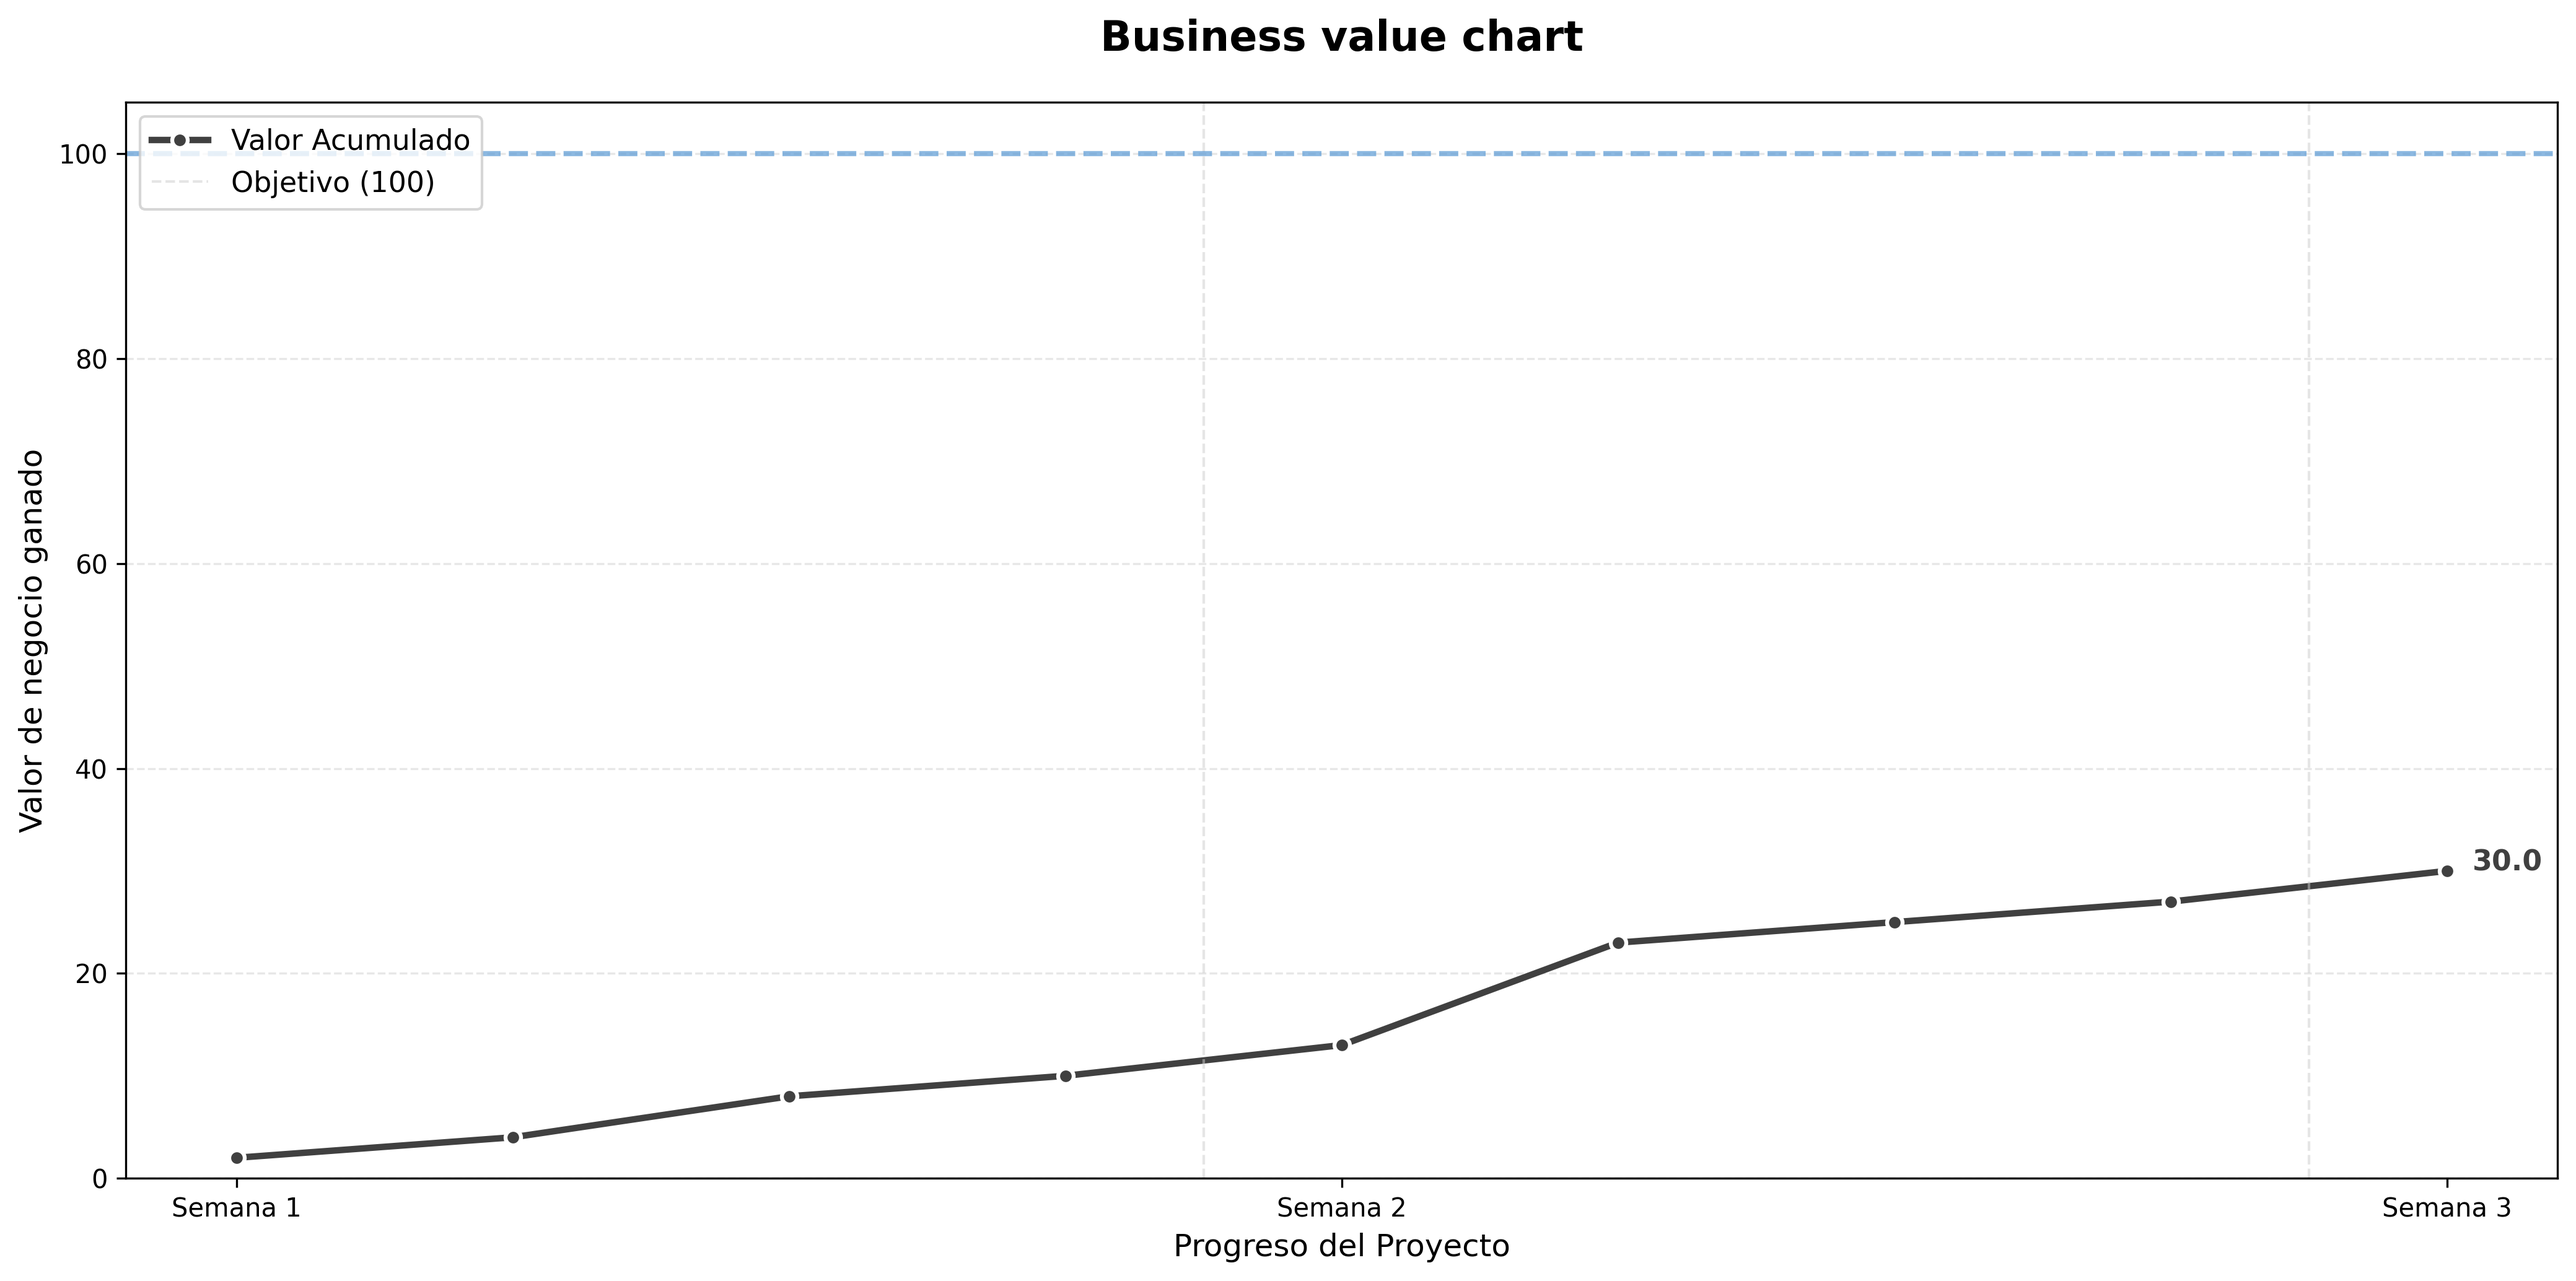
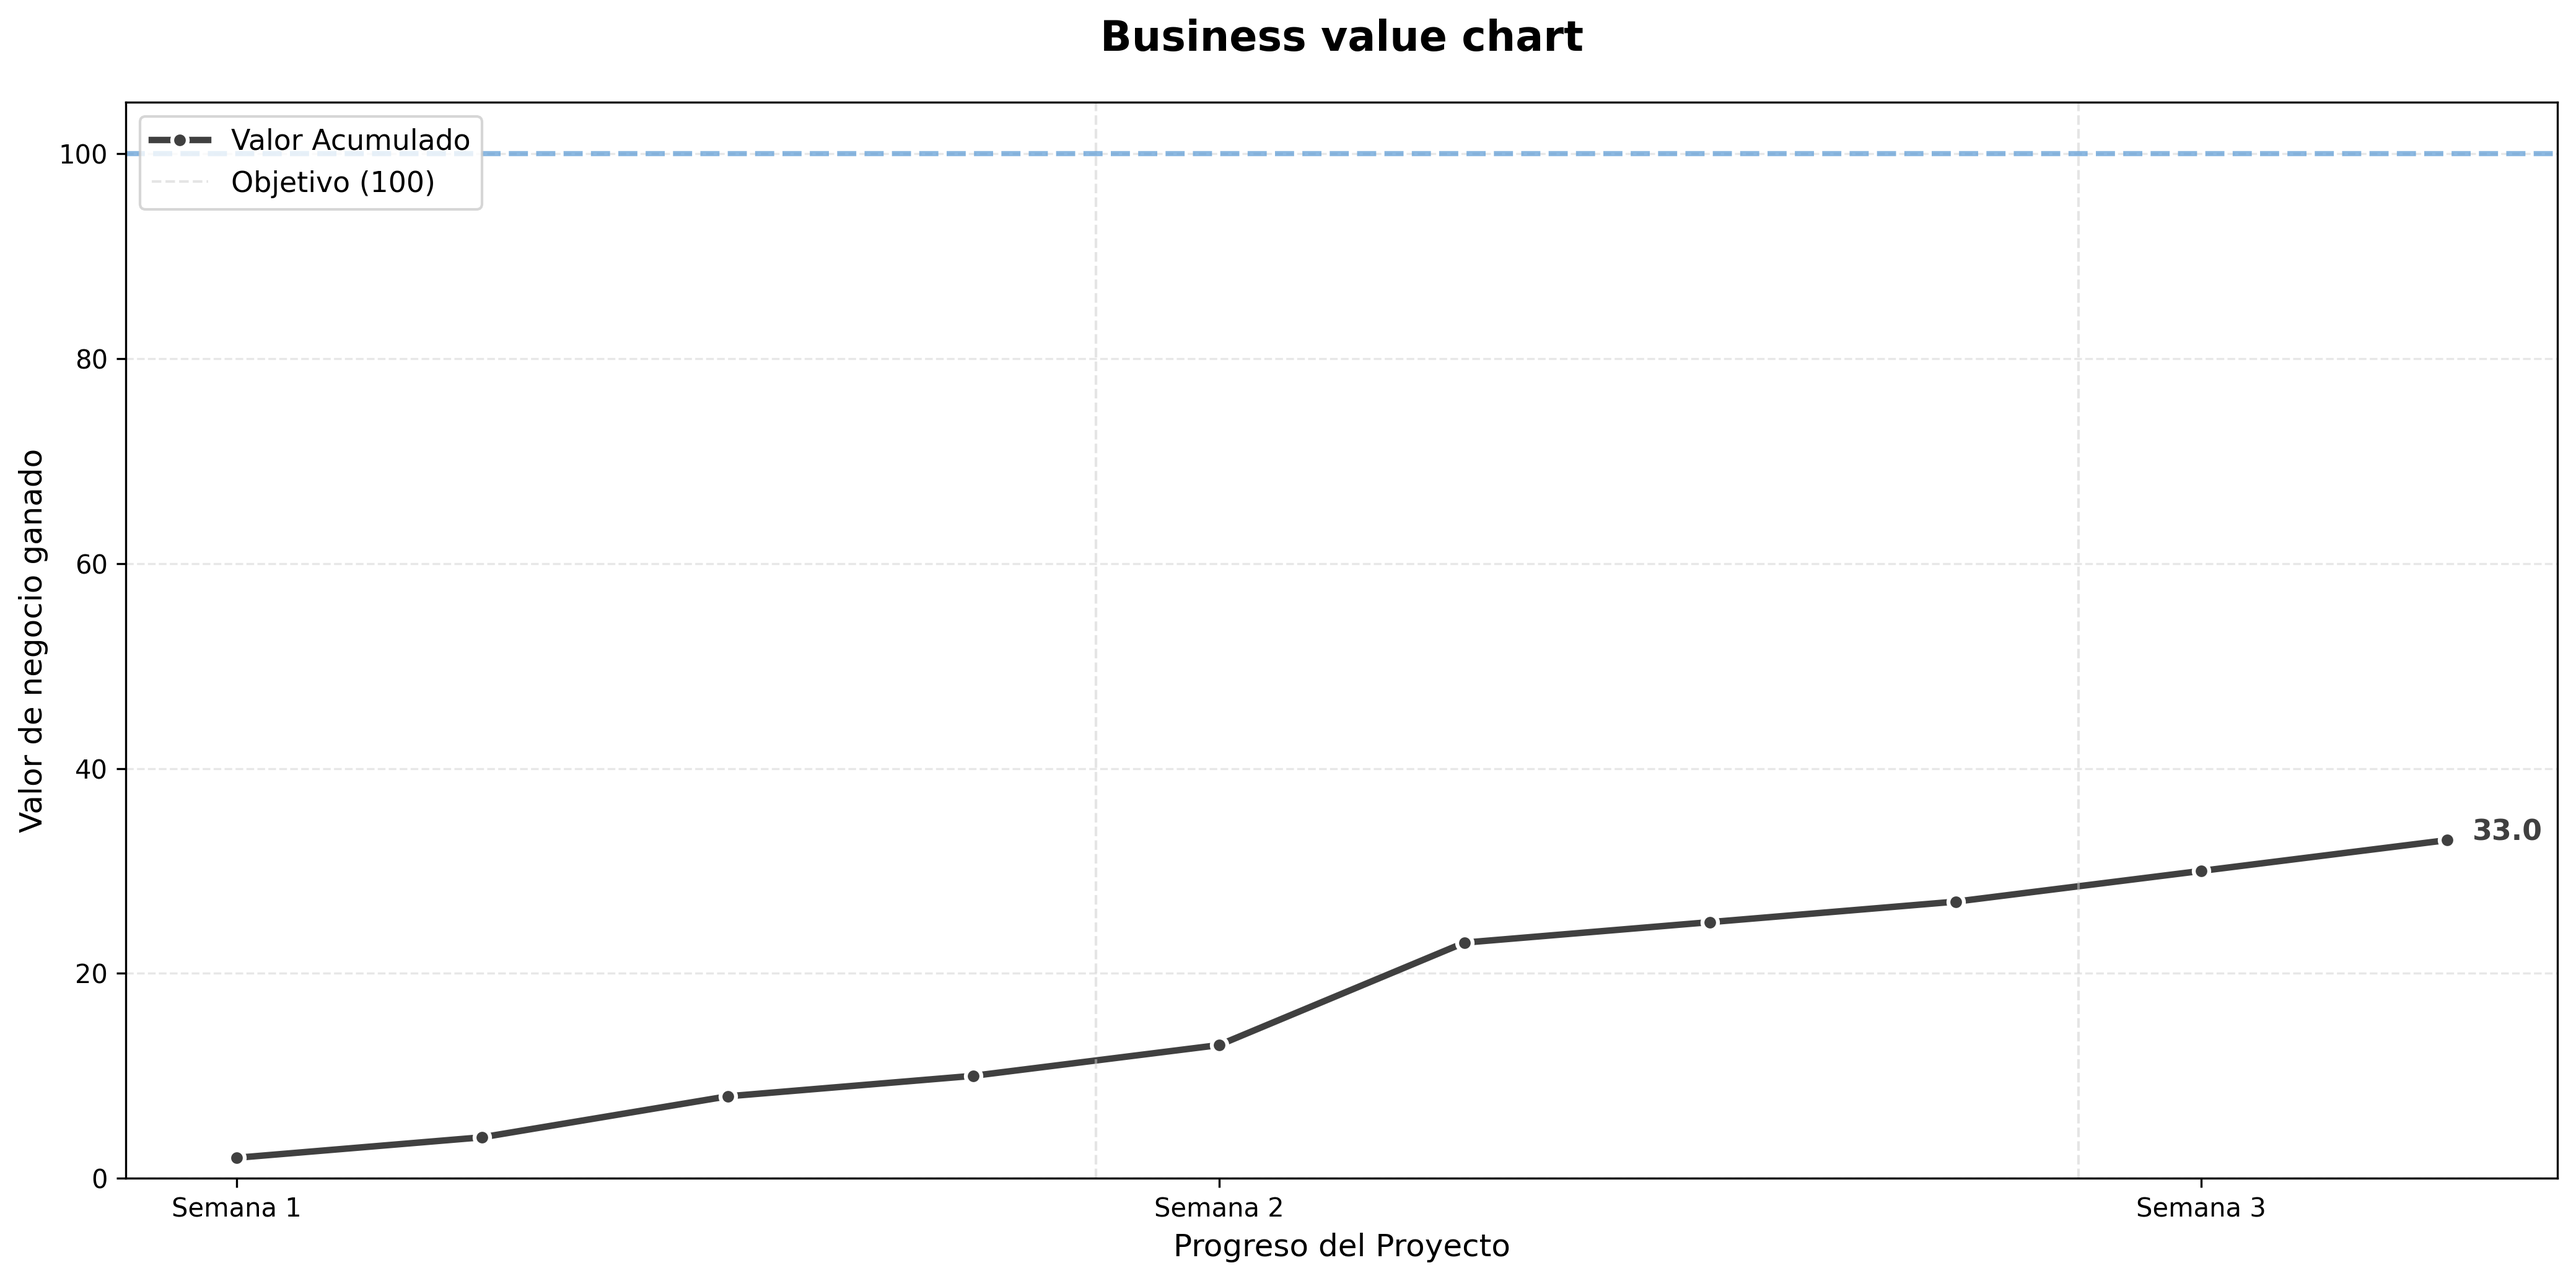
chore: update project charts [skip ci]

diff --git a/scripts-entregas/CHARTS.md b/scripts-entregas/CHARTS.md
@@ -1,19 +1,19 @@
 # Gráficas del proyecto no generadas por Jira - Proyecto Final MISO 202520 G2
 
-**Última actualización:** 2025-10-21 02:15:19 UTC
+**Última actualización:** 2025-10-24 01:27:28 UTC
 
 ## Resumen de métricas del proyecto
 
 ### Business value chart
-- **Valor total:** 30.0 / 100 puntos (30%)
-- **Historias completadas:** 9
-- **Valor restante:** 70.0 puntos
+- **Valor total:** 33.0 / 100 puntos (33%)
+- **Historias completadas:** 10
+- **Valor restante:** 67.0 puntos
 
 ### Velocity chart
 - **Semanas registradas:** 7
 - **Total planeado:** 110.0 puntos de historia
-- **Total completado:** 37.0 puntos de historia
-- **Velocidad promedio:** 5.3 puntos/semana
+- **Total completado:** 42.0 puntos de historia
+- **Velocidad promedio:** 6.0 puntos/semana
 
 ### Release burndown chart
 - **Alcance inicial:** 110 puntos de historia
@@ -81,6 +81,7 @@ Puntos de historia restantes al inicio de cada sprint vs burndown ideal.
 ### Semana 3
 
 - **HUP-008** - 2025-10-20
+- **HUP-011** - 2025-10-23
 
 
 ---
